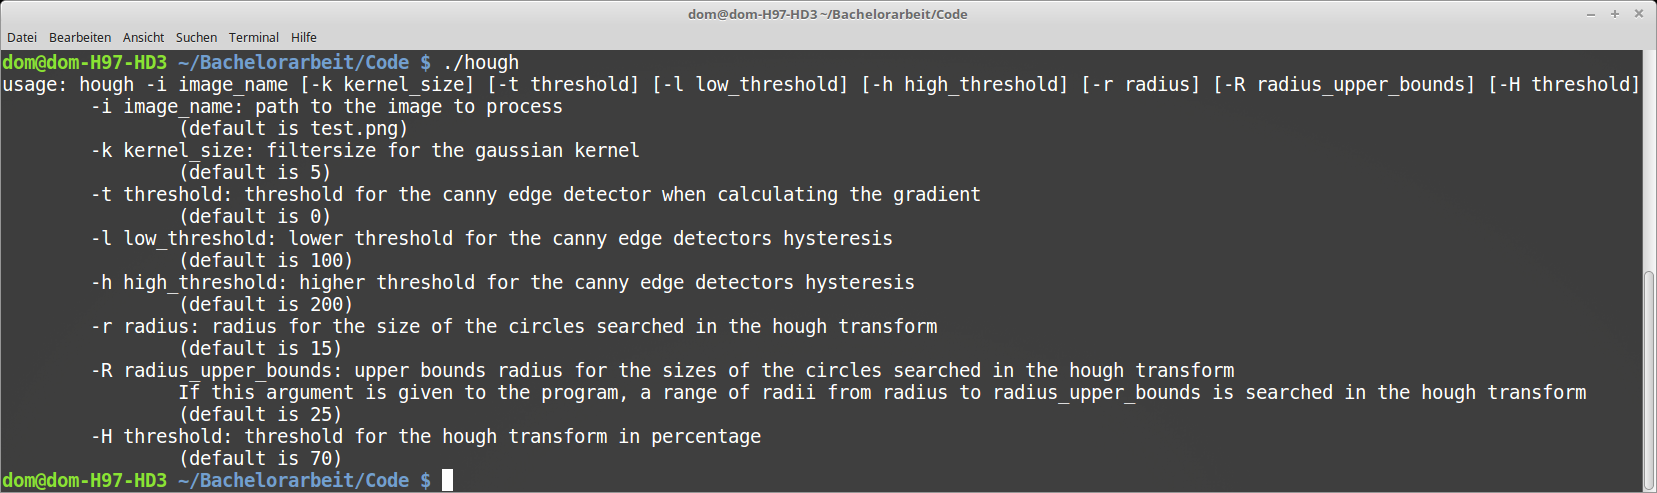
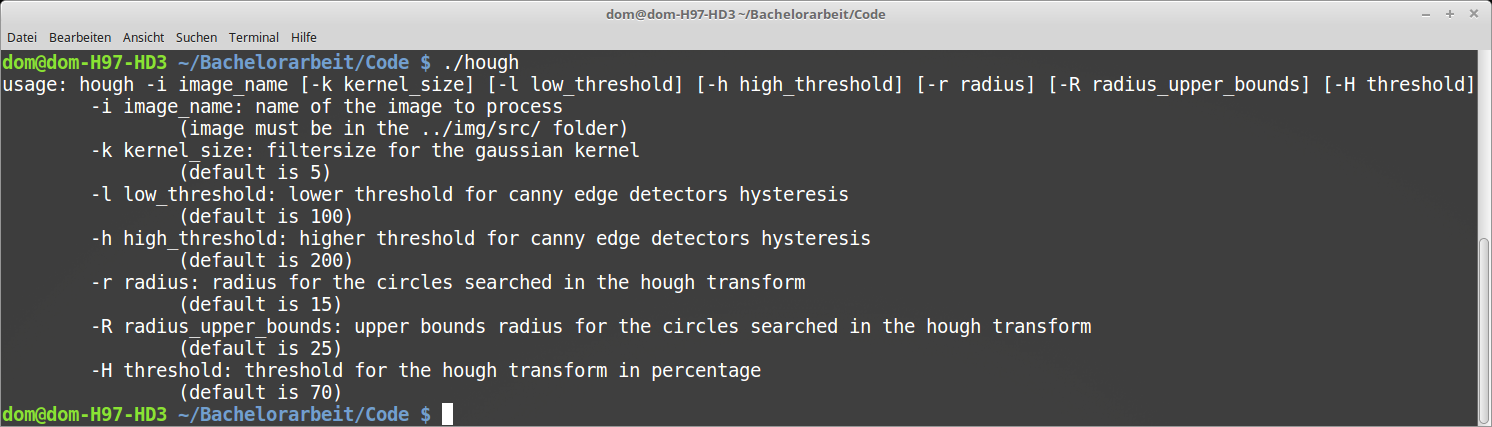
removed threshold as an argument and adjusted usage and evaluation

Changed region(s): [[0.0, 0.0609, 1.0, 1.0], [0.4008, 0.0, 0.6166, 0.0609], [0.9866, 0.0, 1.0, 0.0304]]

diff --git a/Code/main.c b/Code/main.c
@@ -130,7 +130,7 @@ SDL_Palette* createPalette(uint8_t mode) {
 ** Prints usage information to stderr
 */
 void printUsage() {
-    fprintf(stderr, "usage: hough -i image_name [-k kernel_size] [-t threshold] [-l low_threshold] [-h high_threshold] [-r radius] [-R radius_upper_bounds] [-H threshold]"
+    fprintf(stderr, "usage: hough -i image_name [-k kernel_size] [-l low_threshold] [-h high_threshold] [-r radius] [-R radius_upper_bounds] [-H threshold]"
                 #ifdef _OPENMP
                 " [-o number_of_threads]"
                 #endif
@@ -139,14 +139,13 @@ void printUsage() {
                 "\t\t(image must be in the ../img/src/ folder)\n"
                 "\t-k kernel_size: filtersize for the gaussian kernel\n"
                 "\t\t(default is 5)\n"
-                "\t-l low_threshold: lower threshold for the canny edge detectors hysteresis\n"
+                "\t-l low_threshold: lower threshold for canny edge detectors hysteresis\n"
                 "\t\t(default is 100)\n"
-                "\t-h high_threshold: higher threshold for the canny edge detectors hysteresis\n"
+                "\t-h high_threshold: higher threshold for canny edge detectors hysteresis\n"
                 "\t\t(default is 200)\n"
-                "\t-r radius: radius for the size of the circles searched in the hough transform\n"
+                "\t-r radius: radius for the circles searched in the hough transform\n"
                 "\t\t(default is 15)\n"
-                "\t-R radius_upper_bounds: upper bounds radius for the sizes of the circles searched in the hough transform\n"
-                "\t\tIf this argument is given to the program, a range of radii from radius to radius_upper_bounds is searched in the hough transform\n"
+                "\t-R radius_upper_bounds: upper bounds radius for the circles searched in the hough transform\n"
                 "\t\t(default is 25)\n"
                 "\t-H threshold: threshold for the hough transform in percentage\n"
                 "\t\t(default is 70)\n"
